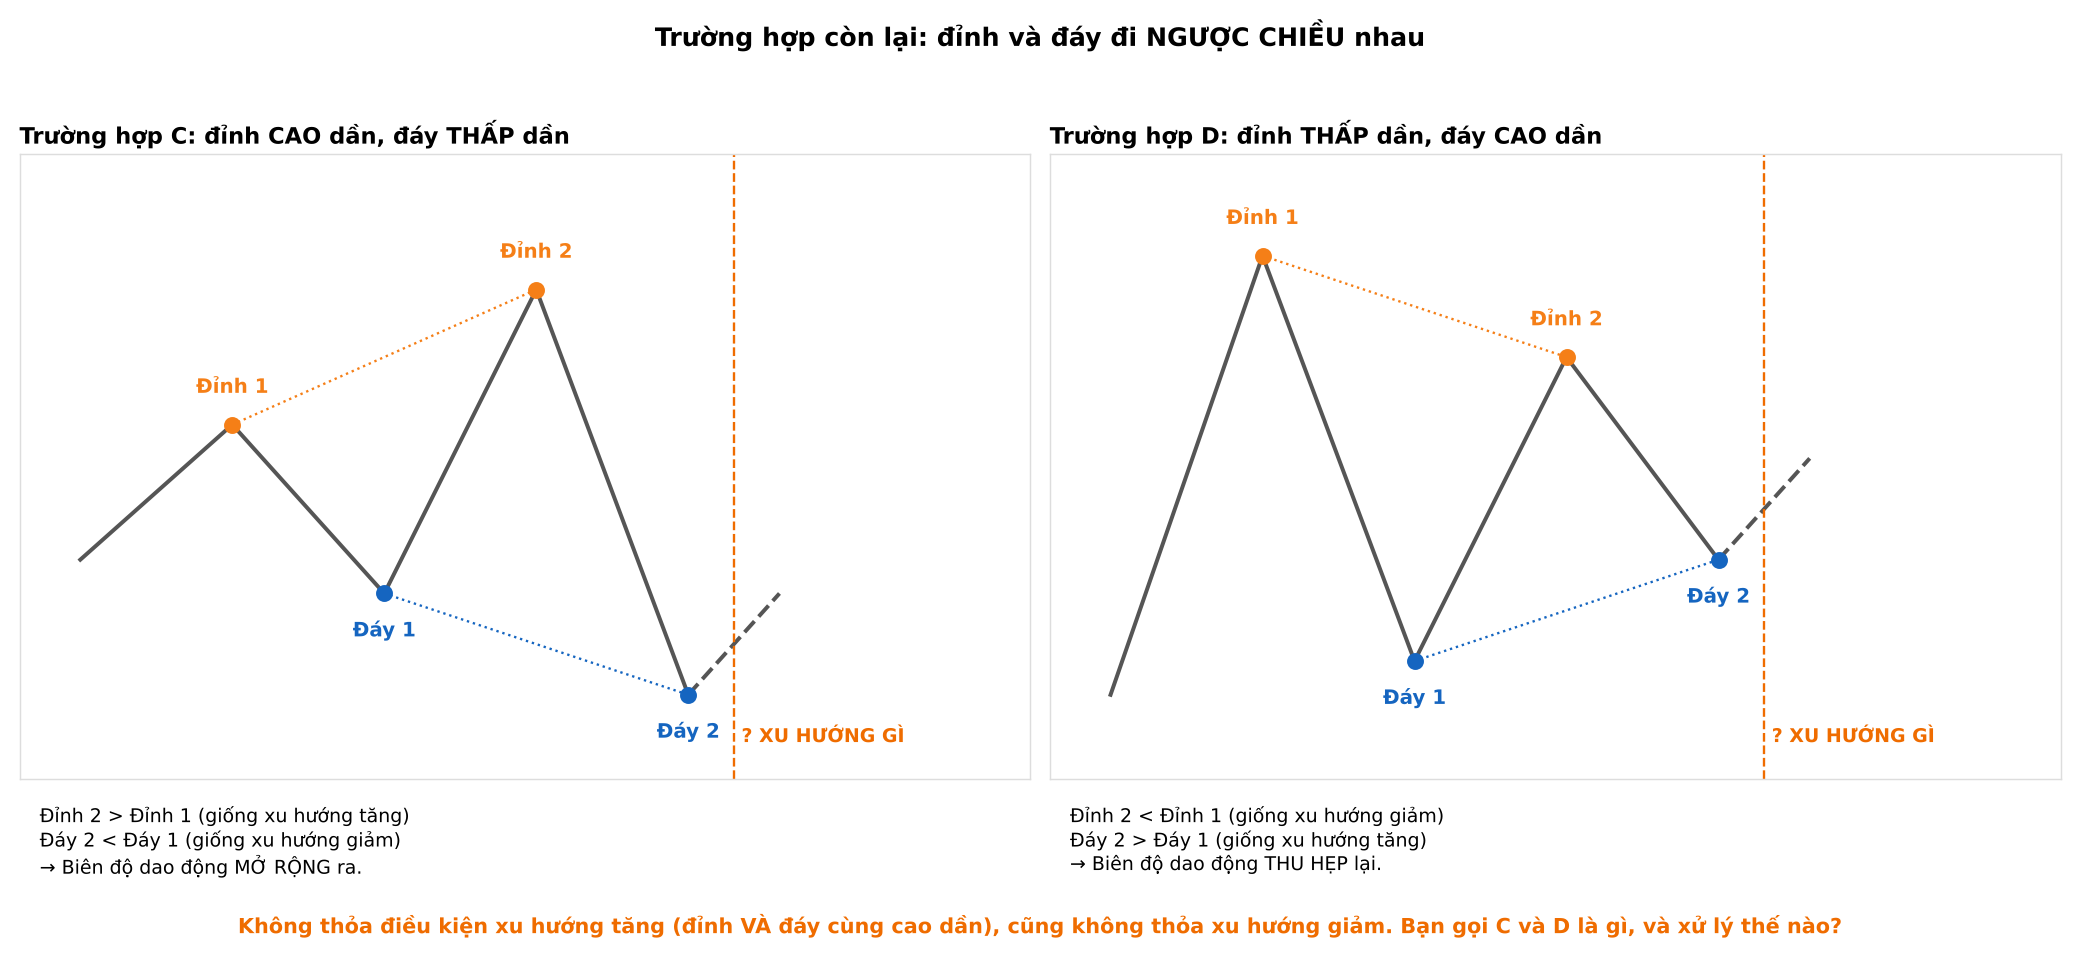
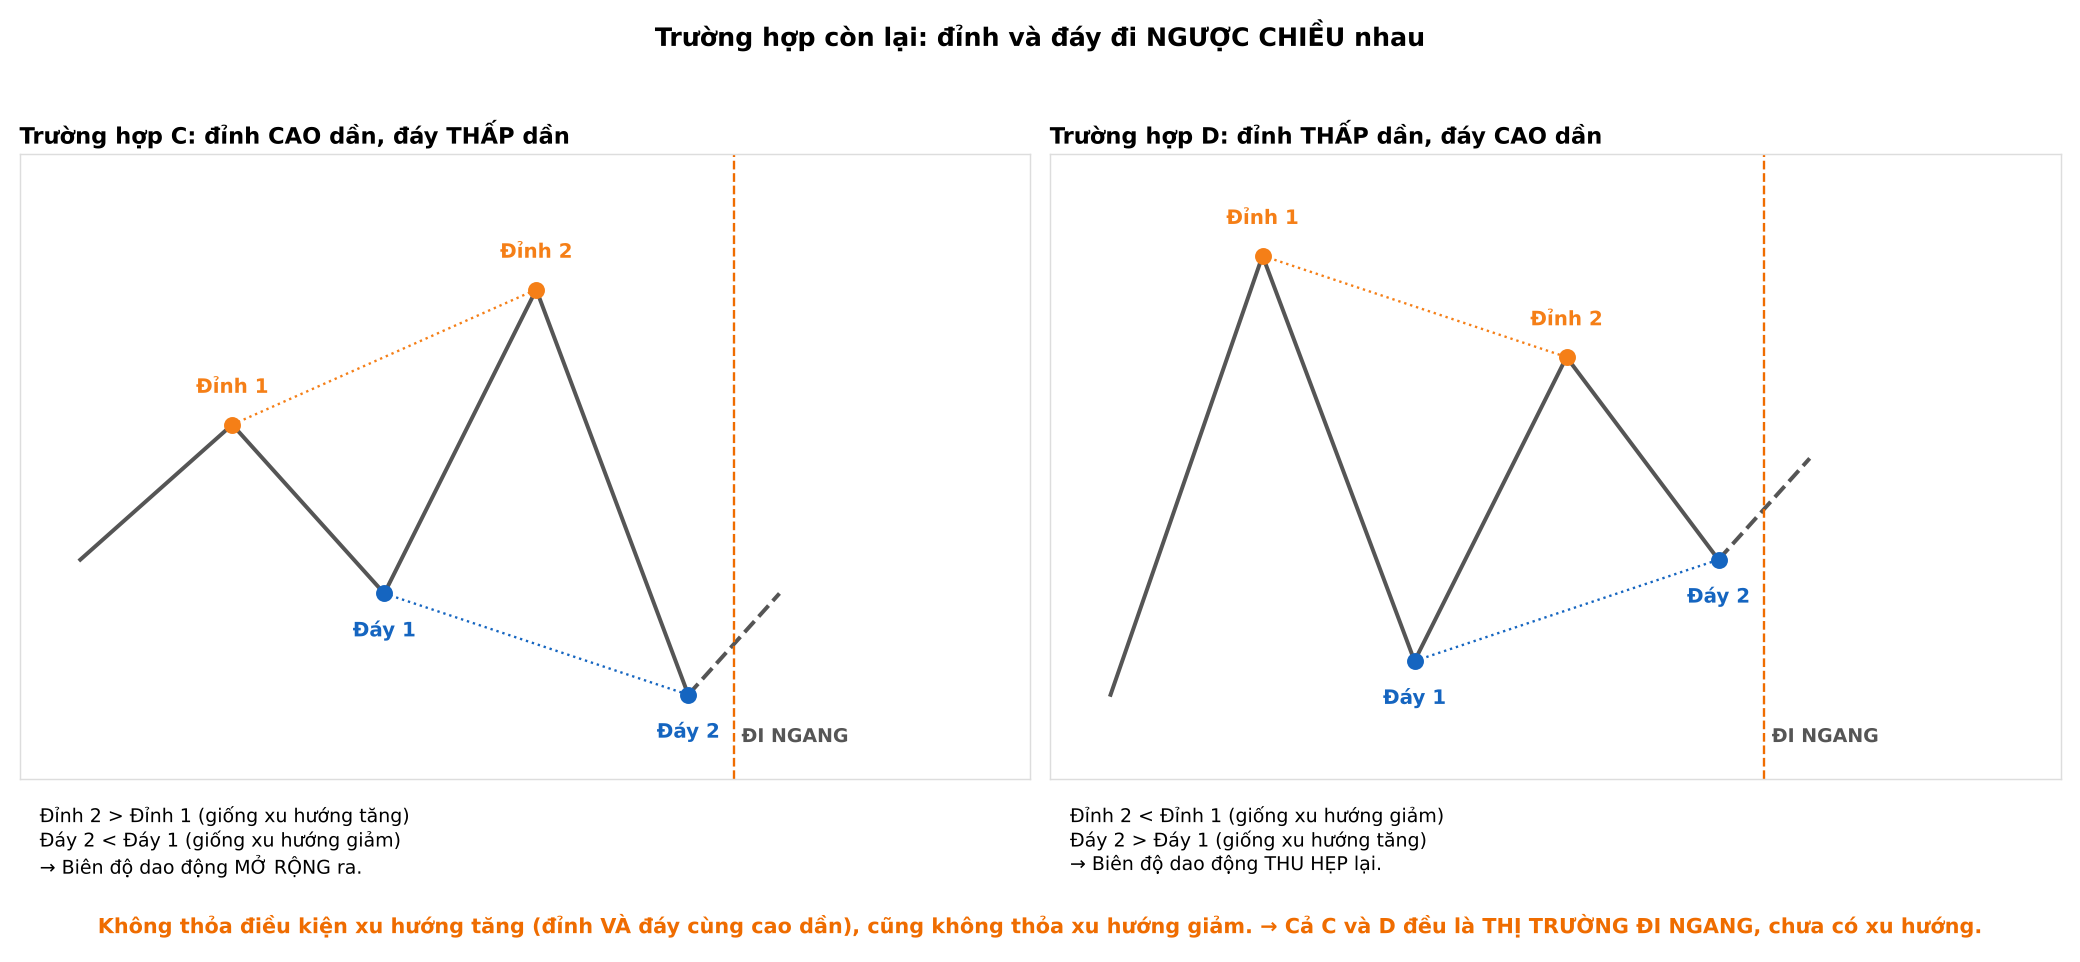
Chốt: đỉnh và đáy đi ngược chiều là thị trường đi ngang
Claude-Session: https://claude.ai/code/session_01QDQqkxbAsnss6apbWZAP33

Changed region(s): [[0.0312, 0.9356, 0.9375, 0.9979], [0.8438, 0.7484, 0.9375, 0.7796], [0.3438, 0.7484, 0.4375, 0.7796]]

diff --git a/knowledge/03-setup.md b/knowledge/03-setup.md
@@ -65,8 +65,9 @@ Ví dụ chart thật: `examples/01-dinh-day-xauusd-h4.jpg`
 - **Xu hướng giảm:** đỉnh sau thấp hơn đỉnh trước VÀ đáy sau thấp hơn đáy trước.
 - **Xác định xu hướng ban đầu:** chỉ cần **2 đỉnh và 2 đáy** (theo mục 1–2) là đủ kết luận.
 - **Thời điểm kết luận xu hướng:** lúc cây nến xác nhận đỉnh/đáy thứ 4 đóng cửa (đã xác nhận).
+- **Đi ngang (chưa có xu hướng):** đỉnh và đáy đi ngược chiều nhau, tức là đỉnh cao dần nhưng đáy thấp dần (mở rộng) HOẶC đỉnh thấp dần nhưng đáy cao dần (thu hẹp). Đã xác nhận, xem `examples/09-dinh-day-nguoc-chieu.png`.
 - **Thứ tự không quan trọng:** gặp đỉnh trước hay đáy trước đều được, miễn đủ 2 đỉnh + 2 đáy thỏa điều kiện (đã xác nhận, xem `examples/08-thu-tu-dinh-day.png`).
 - Minh họa: `examples/07-xac-dinh-xu-huong.png`
 
 **Chưa chốt:**
-- Nếu đỉnh cao dần nhưng đáy thấp dần (hoặc ngược lại) thì gọi là gì? (người dùng sẽ xác nhận sau, xem `examples/09-dinh-day-nguoc-chieu.png`)
+- Khi đi ngang thì xử lý thế nào? (vd: tiếp tục dùng mục 1–2, so 2 đỉnh + 2 đáy GẦN NHẤT cho đến khi cùng chiều?)
